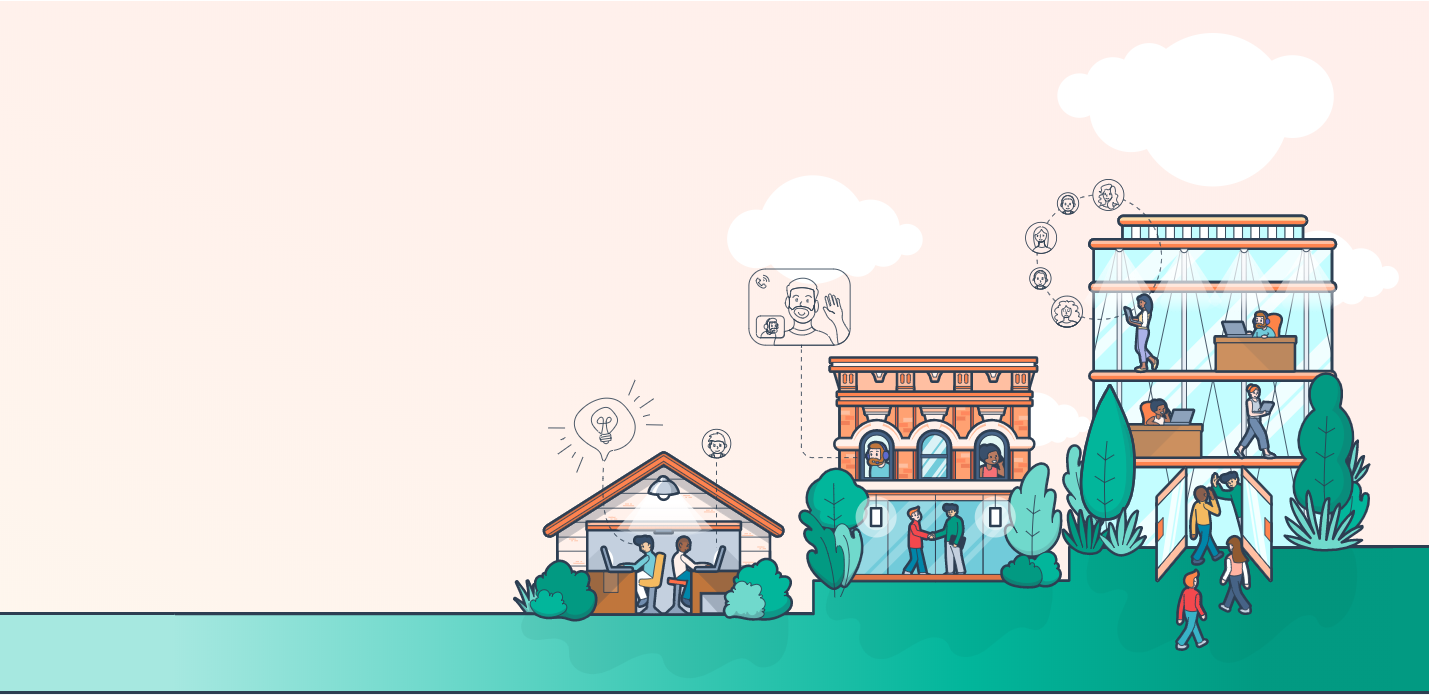
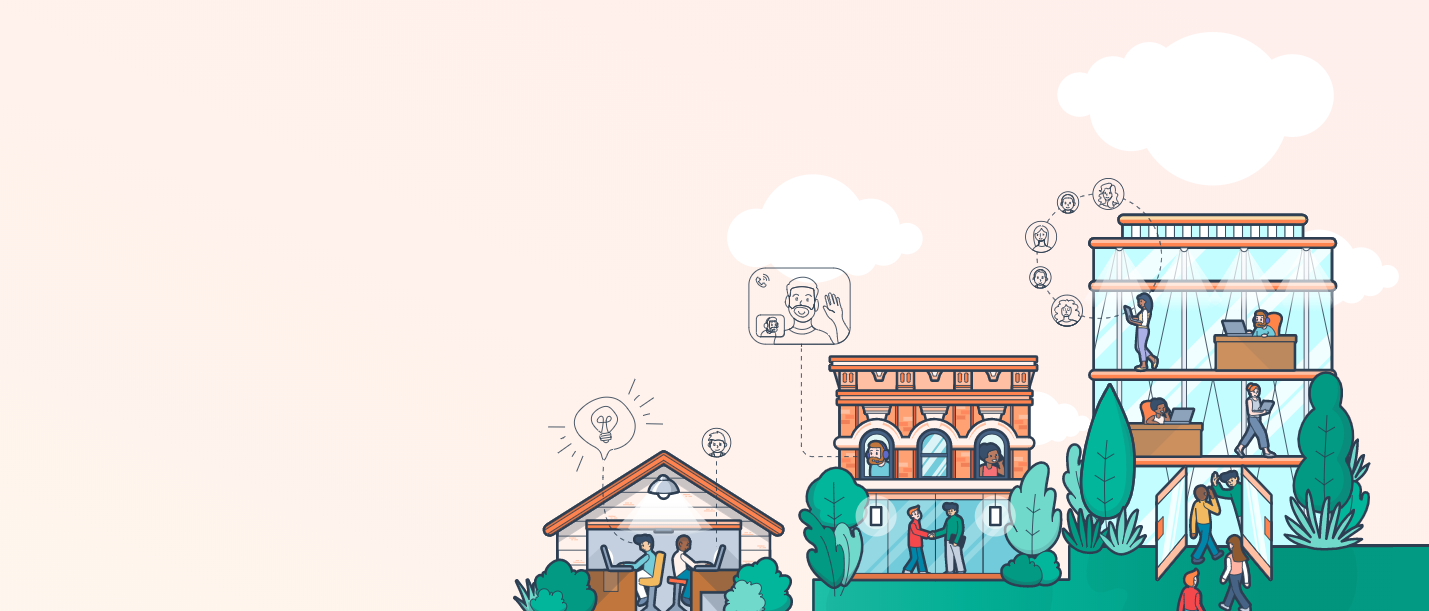
Background image done

Changed region(s): [[0.0, 0.2488, 1.0, 1.0], [0.4927, 0.6219, 0.5234, 0.653]]

diff --git a/css/style.css b/css/style.css
@@ -92,10 +92,10 @@
 
 
 .background-pink {
-  height: 400px;
+  height: 800px;
   background-image: url(../img/jumbotron.png);
   background-repeat: no-repeat;
-  background-size: cover;
+  background-size:cover;
   background-position: bottom right;
 
 }
